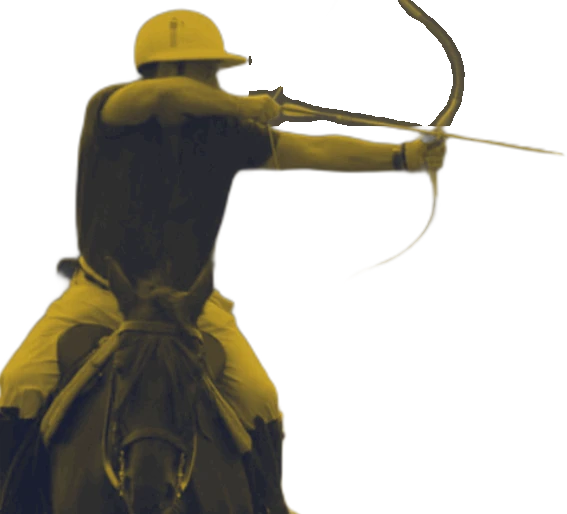
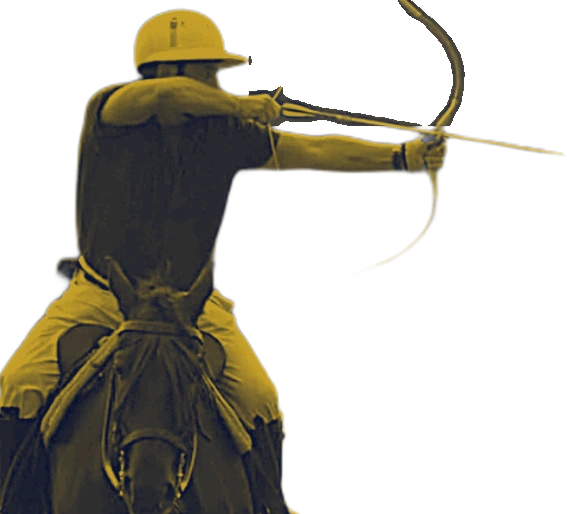
Add files via upload

diff --git a/sw.js b/sw.js
@@ -1,6 +1,6 @@
 // Dispatch service worker — network-first, falls back to cache when offline.
 // Bump CACHE_NAME whenever app files change to force a refresh.
-const CACHE_NAME = "dispatch-v18";
+const CACHE_NAME = "dispatch-v19";
 const ASSETS = [
   "./",
   "./index.html",
